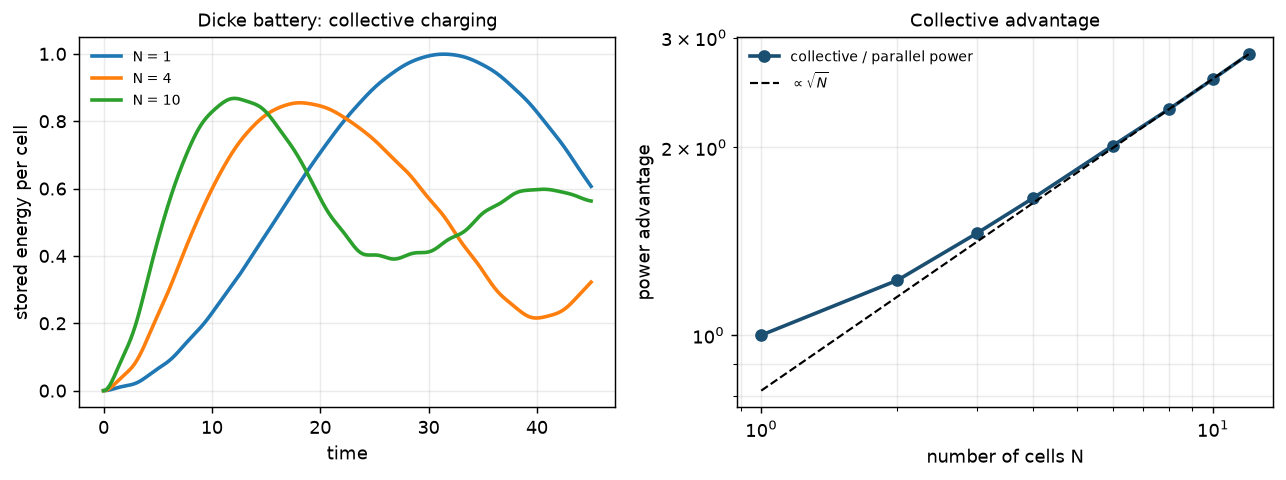
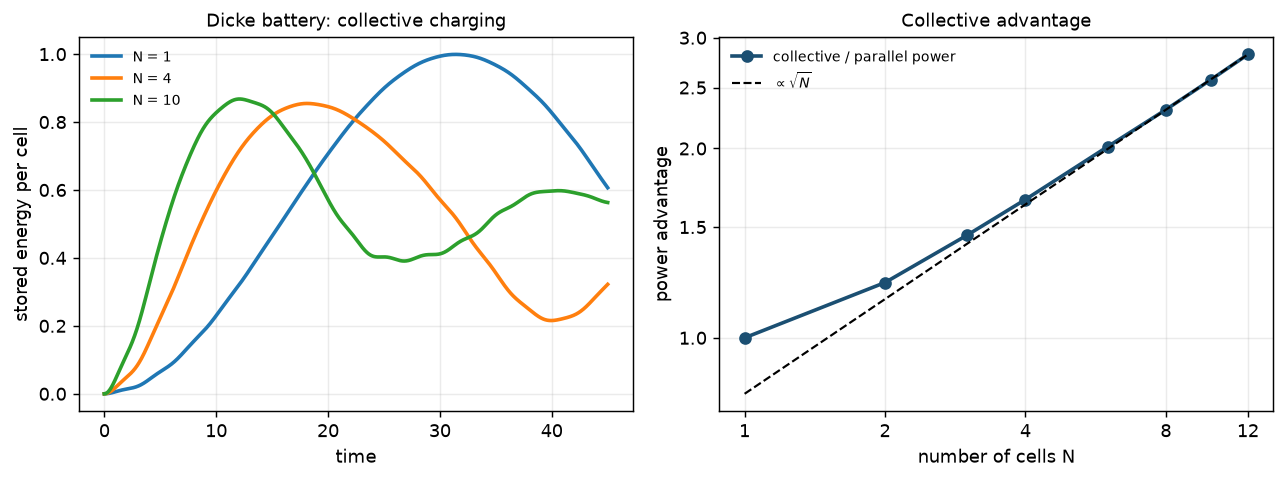
README: add quantum battery figure; tidy log-axis ticks
Claude-Session: https://claude.ai/code/session_01VV69mD8LuaJk9i2Bo6zgJQ

diff --git a/examples/quantum_battery.py b/examples/quantum_battery.py
@@ -88,6 +88,12 @@ ax.loglog(advantage["N"], advantage["advantage"], "o-", lw=2, color="#1B4F72",
 Ns = np.array(N_values, dtype=float)
 ax.loglog(Ns, np.sqrt(Ns) * advantage["advantage"][-1] / np.sqrt(Ns[-1]), "k--",
           lw=1.2, label=r"$\propto\sqrt{N}$")
+from matplotlib.ticker import FixedLocator, NullLocator, ScalarFormatter
+ax.xaxis.set_major_locator(FixedLocator([1, 2, 4, 8, 12]))
+ax.yaxis.set_major_locator(FixedLocator([1, 1.5, 2, 2.5, 3]))
+for axis in (ax.xaxis, ax.yaxis):
+    axis.set_major_formatter(ScalarFormatter())
+    axis.set_minor_locator(NullLocator())
 ax.set_xlabel("number of cells N")
 ax.set_ylabel("power advantage")
 ax.set_title("Collective advantage", fontsize=10)

diff --git a/README.md b/README.md
@@ -196,6 +196,17 @@ ramps (quantum friction) open up accelerator and heater regions.</td>
 quantum-jump trajectories against the exact counting-statistics distribution
 (diamonds). The master-equation mean is a value no single cycle produces.</td>
 </tr>
+<tr>
+<td colspan="2"><img src="examples/figures/quantum_battery.png" alt="Dicke quantum battery"></td>
+</tr>
+<tr>
+<td colspan="2"><b>Quantum batteries</b> (<code>quantum_battery.py</code>). N cells charged
+through one cavity charge faster per cell than N separate ones, with a power
+advantage growing as √N (Ferraro et al. 2018; fitted exponent 0.499). The same
+script splits stored work into population and coherence parts, shows the
+coherent part lost to dephasing, and shows work locked in correlations or
+unlocked by many-copy operations.</td>
+</tr>
 </table>
 
 ## Verification
